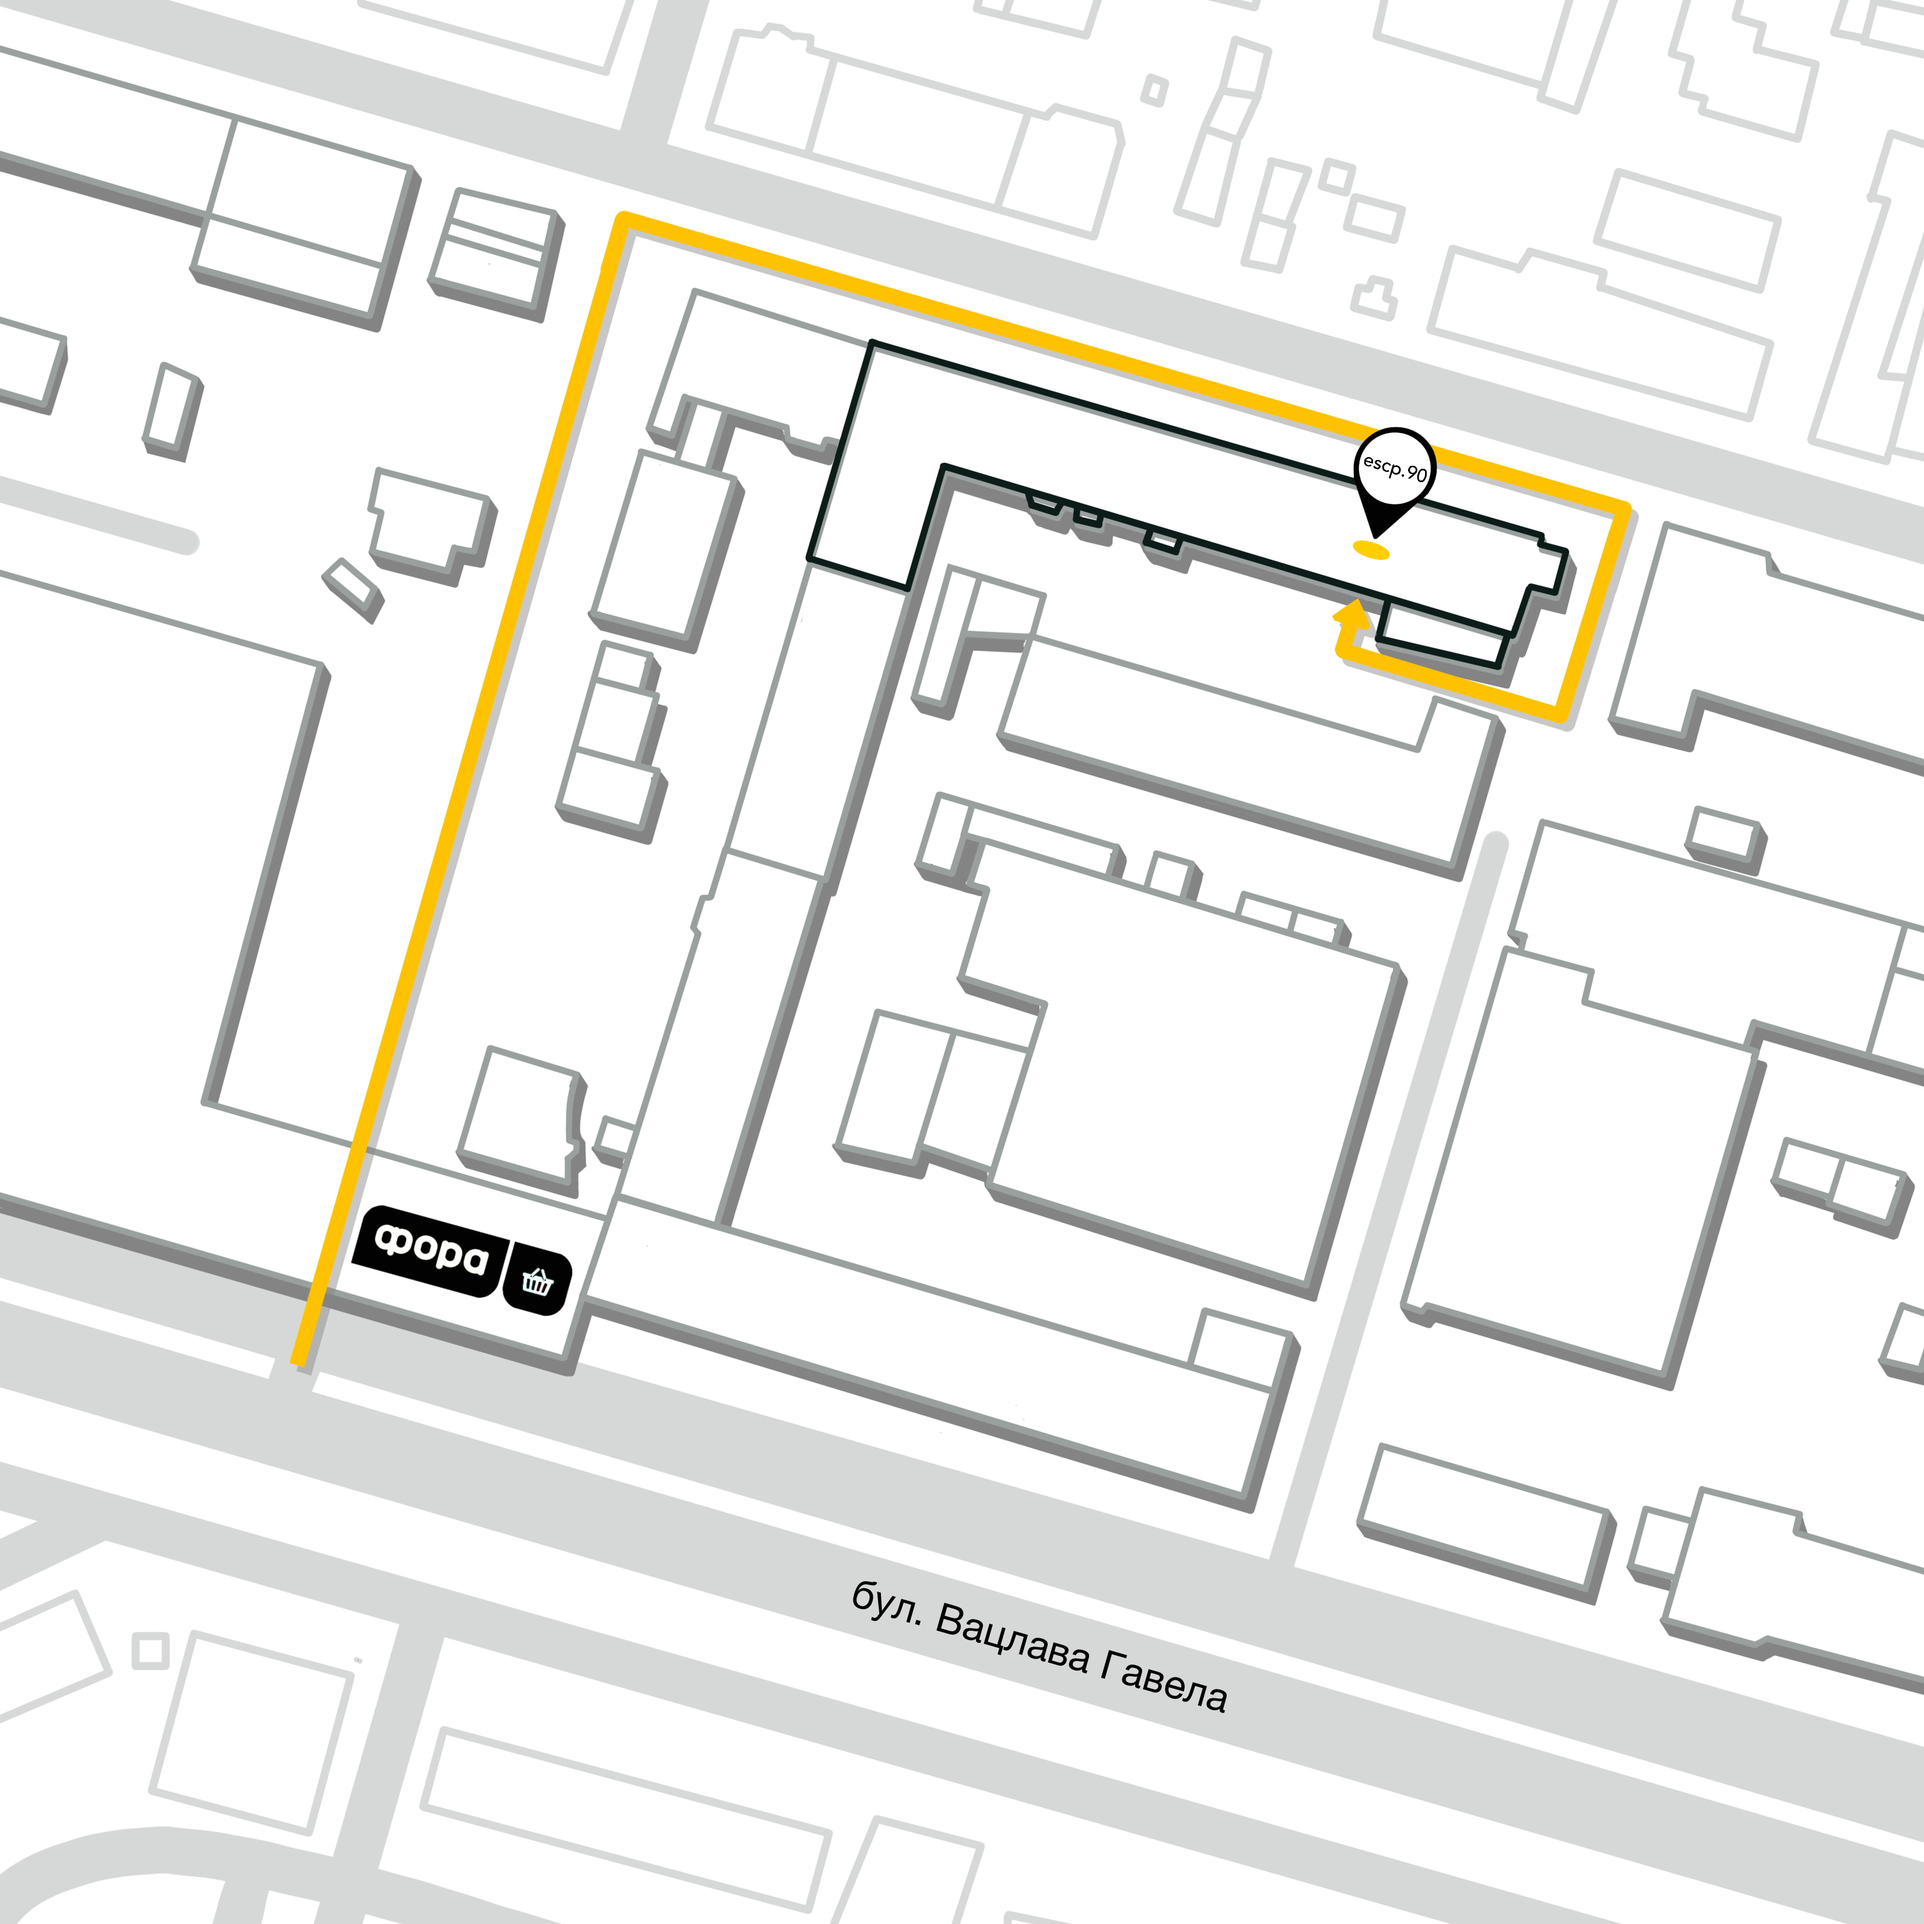
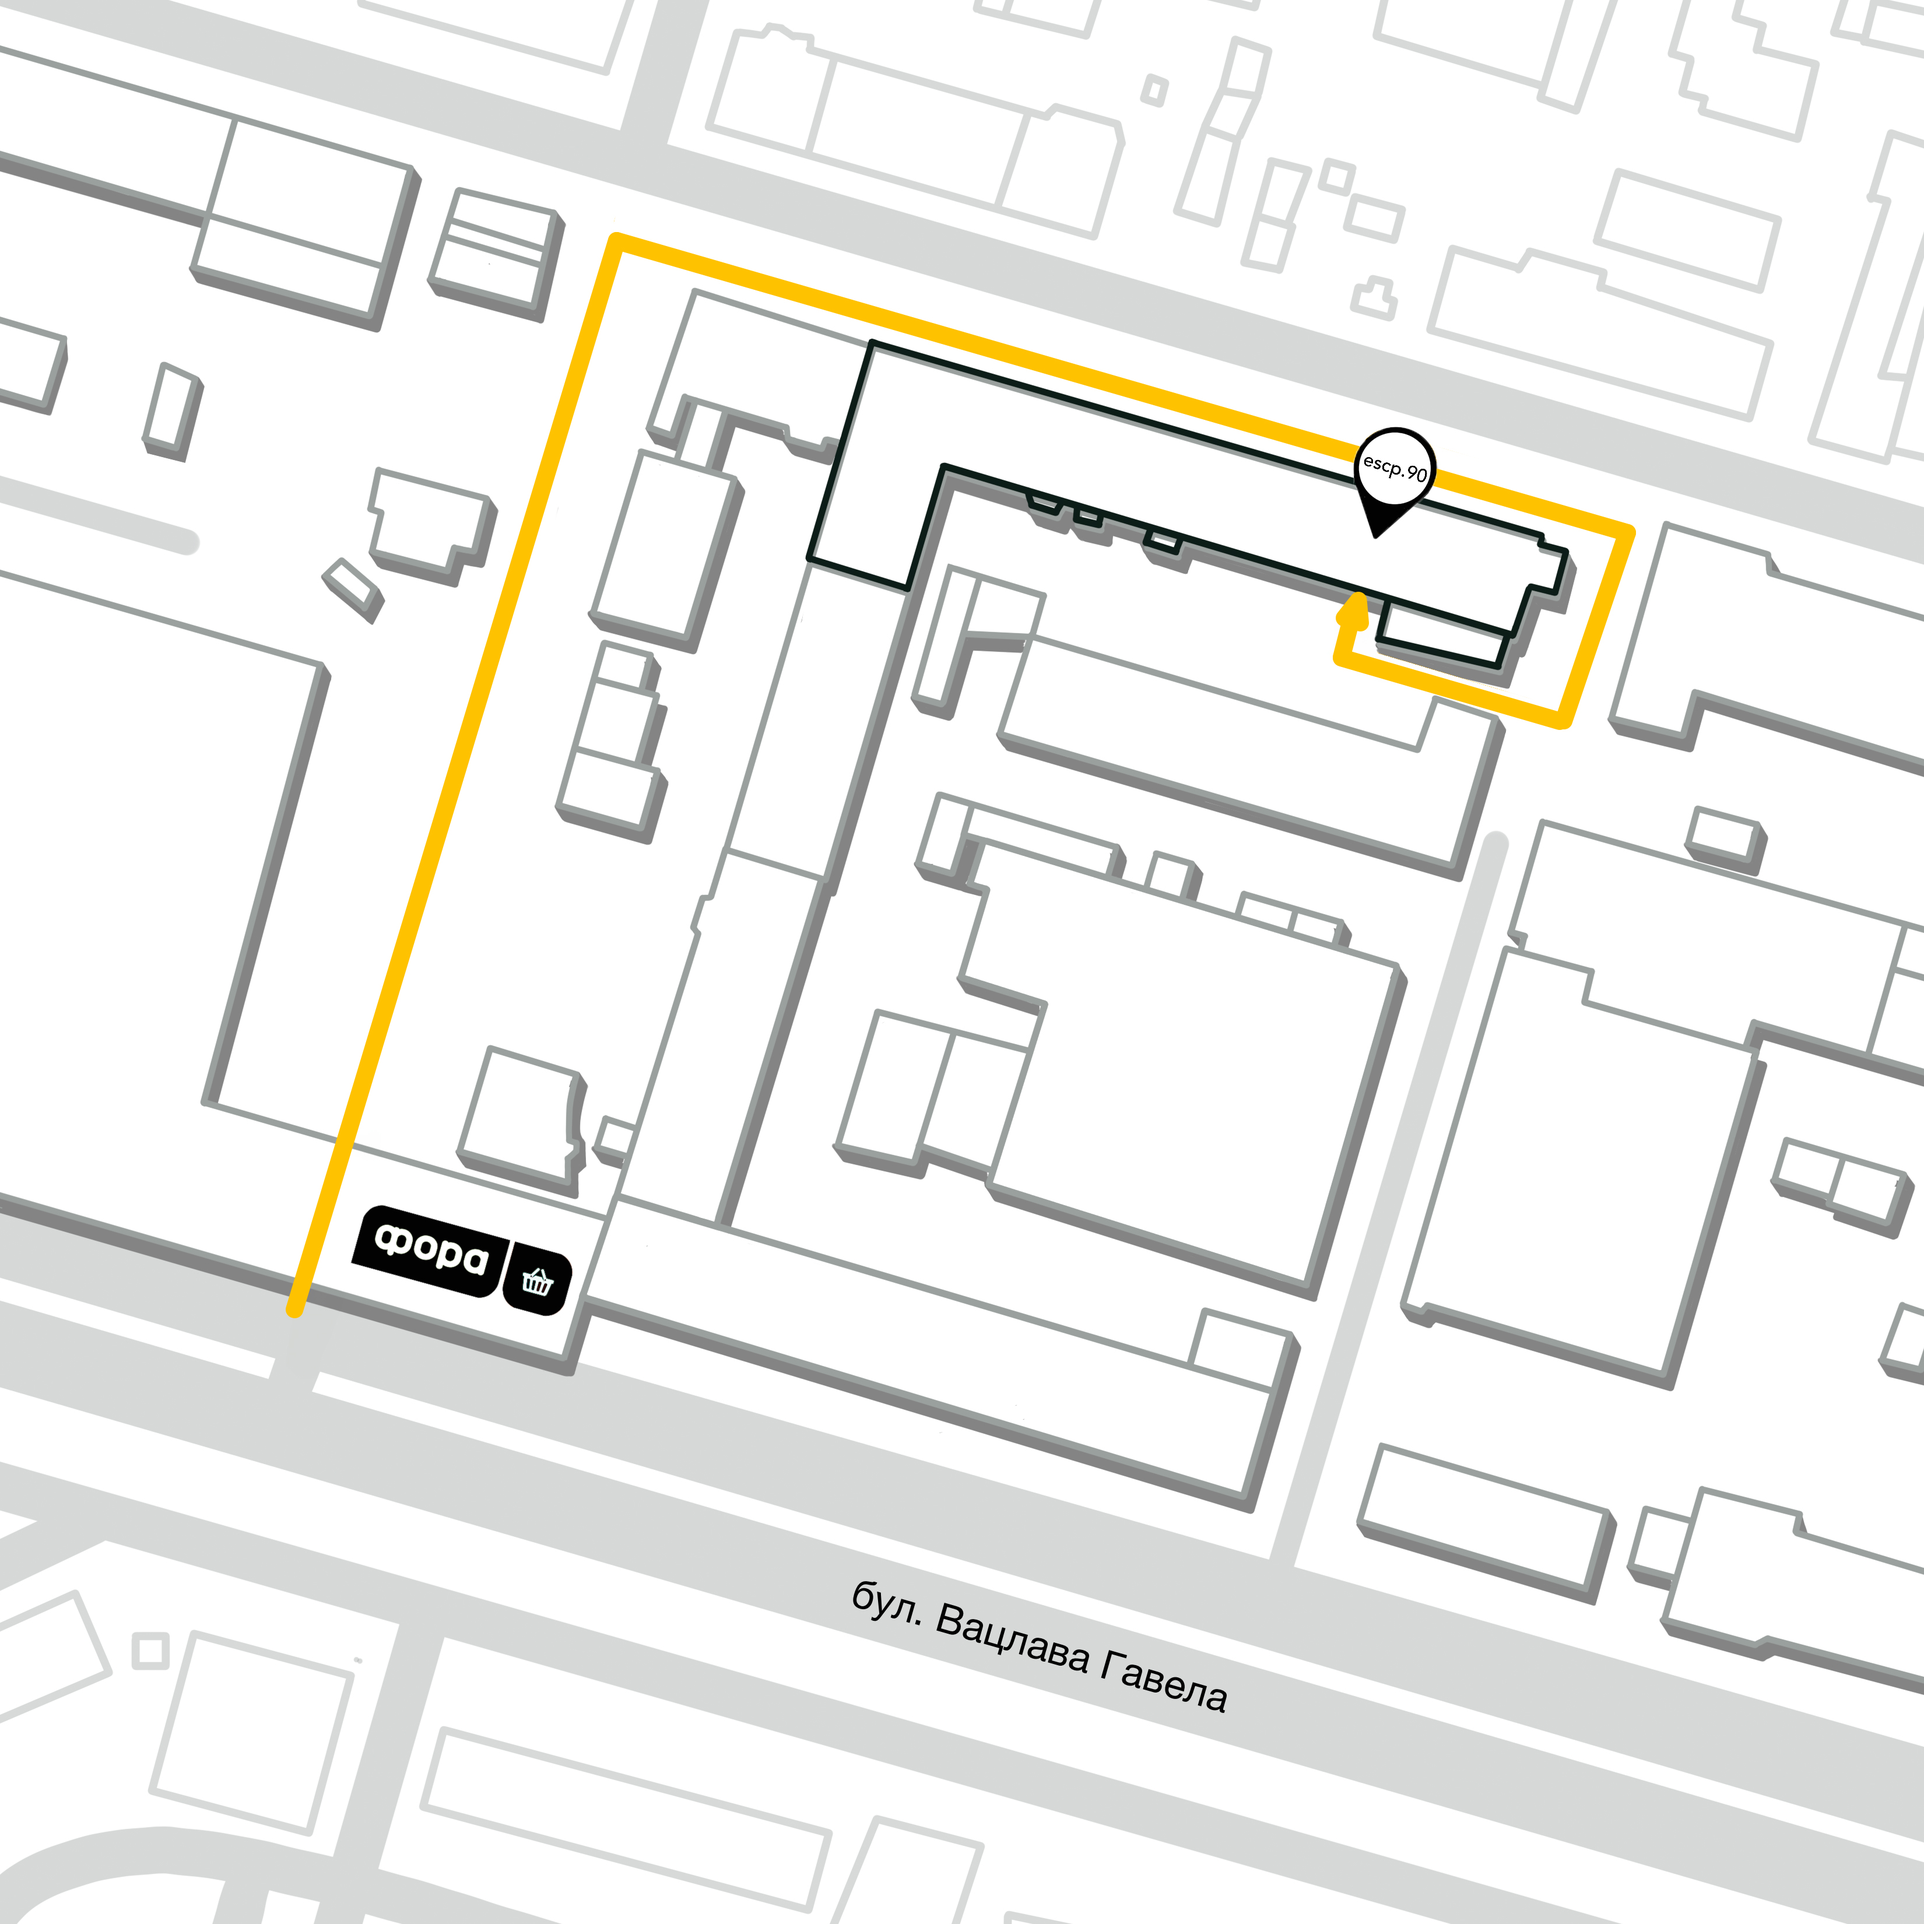
Update route by foot

Changed region(s): [[0.1248, 0.0936, 0.7179, 0.7179], [0.6867, 0.2185, 0.8739, 0.3745]]

diff --git a/app/routes/contacts/index.tsx b/app/routes/contacts/index.tsx
@@ -8,13 +8,15 @@ import imageSrcRouteCar from "../../../public/images/route-car.jpg";
 import Wrapper from "~/components/Wrapper/Wrapper";
 
 const byFootText = `
-      <br />Прохідна через "Silver Centre"
-      <br />скажіть, що ви в фотостудію та попросіть пройти через турнікет
-      <br />йдіть прямо донизу до останнього корпусу
-      <br />перед ним ліворуч та з правого боку розташовані вхідні двері
-      <br />підніміться на 4й поверх`;
+      <br />Прохідна за магазином "Фора"
+      <br />йдіть прямо та поверніть праворуч в арку
+      <br />за аркою трохи лівіше та продовжуйте йти прямо між двома будівлями
+      <br />в кінці будівель ліворуч та ще раз ліворуч
+      <br />за навісним переходом між будівлями праворуч наші вхідні двері
+      <br />піднімайтесь на 4й поверх`;
 const byFootLink =
-  "https://www.youtube.com/embed/NignKJrDa3U?si=GOKjPQ9eyeYKx1tT?rel=0&showinfo=0&autohide=1";
+  "https://www.youtube.com/embed/jbK3TkREKY0?rel=0&showinfo=0&autohide=1";
+// "https://www.youtube.com/embed/NignKJrDa3U?si=GOKjPQ9eyeYKx1tT?rel=0&showinfo=0&autohide=1";
 
 const renderByFootTab = () => (
   <div className="flex flex-col flex-nowrap items-stretch justify-center pt-2 pb-4 xl:flex-row-reverse">
